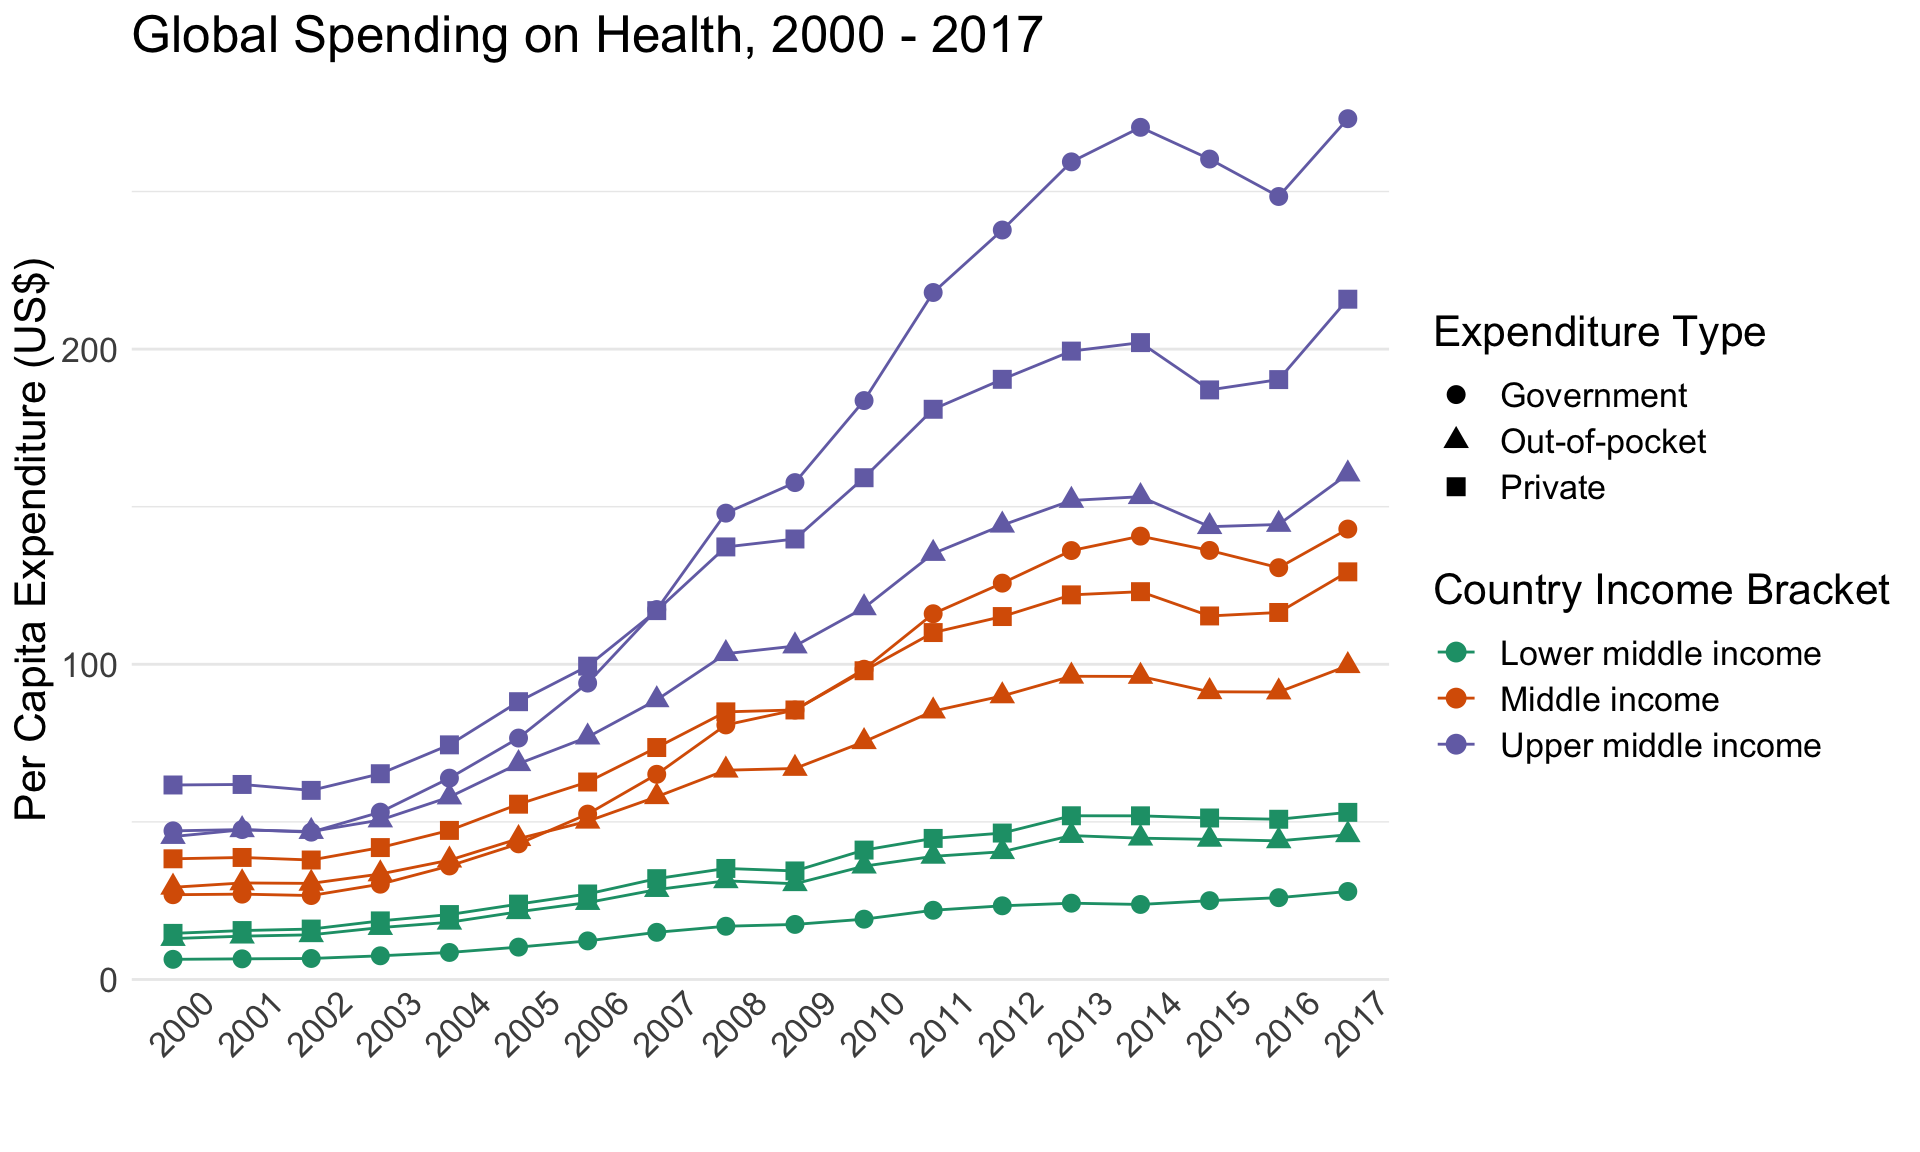
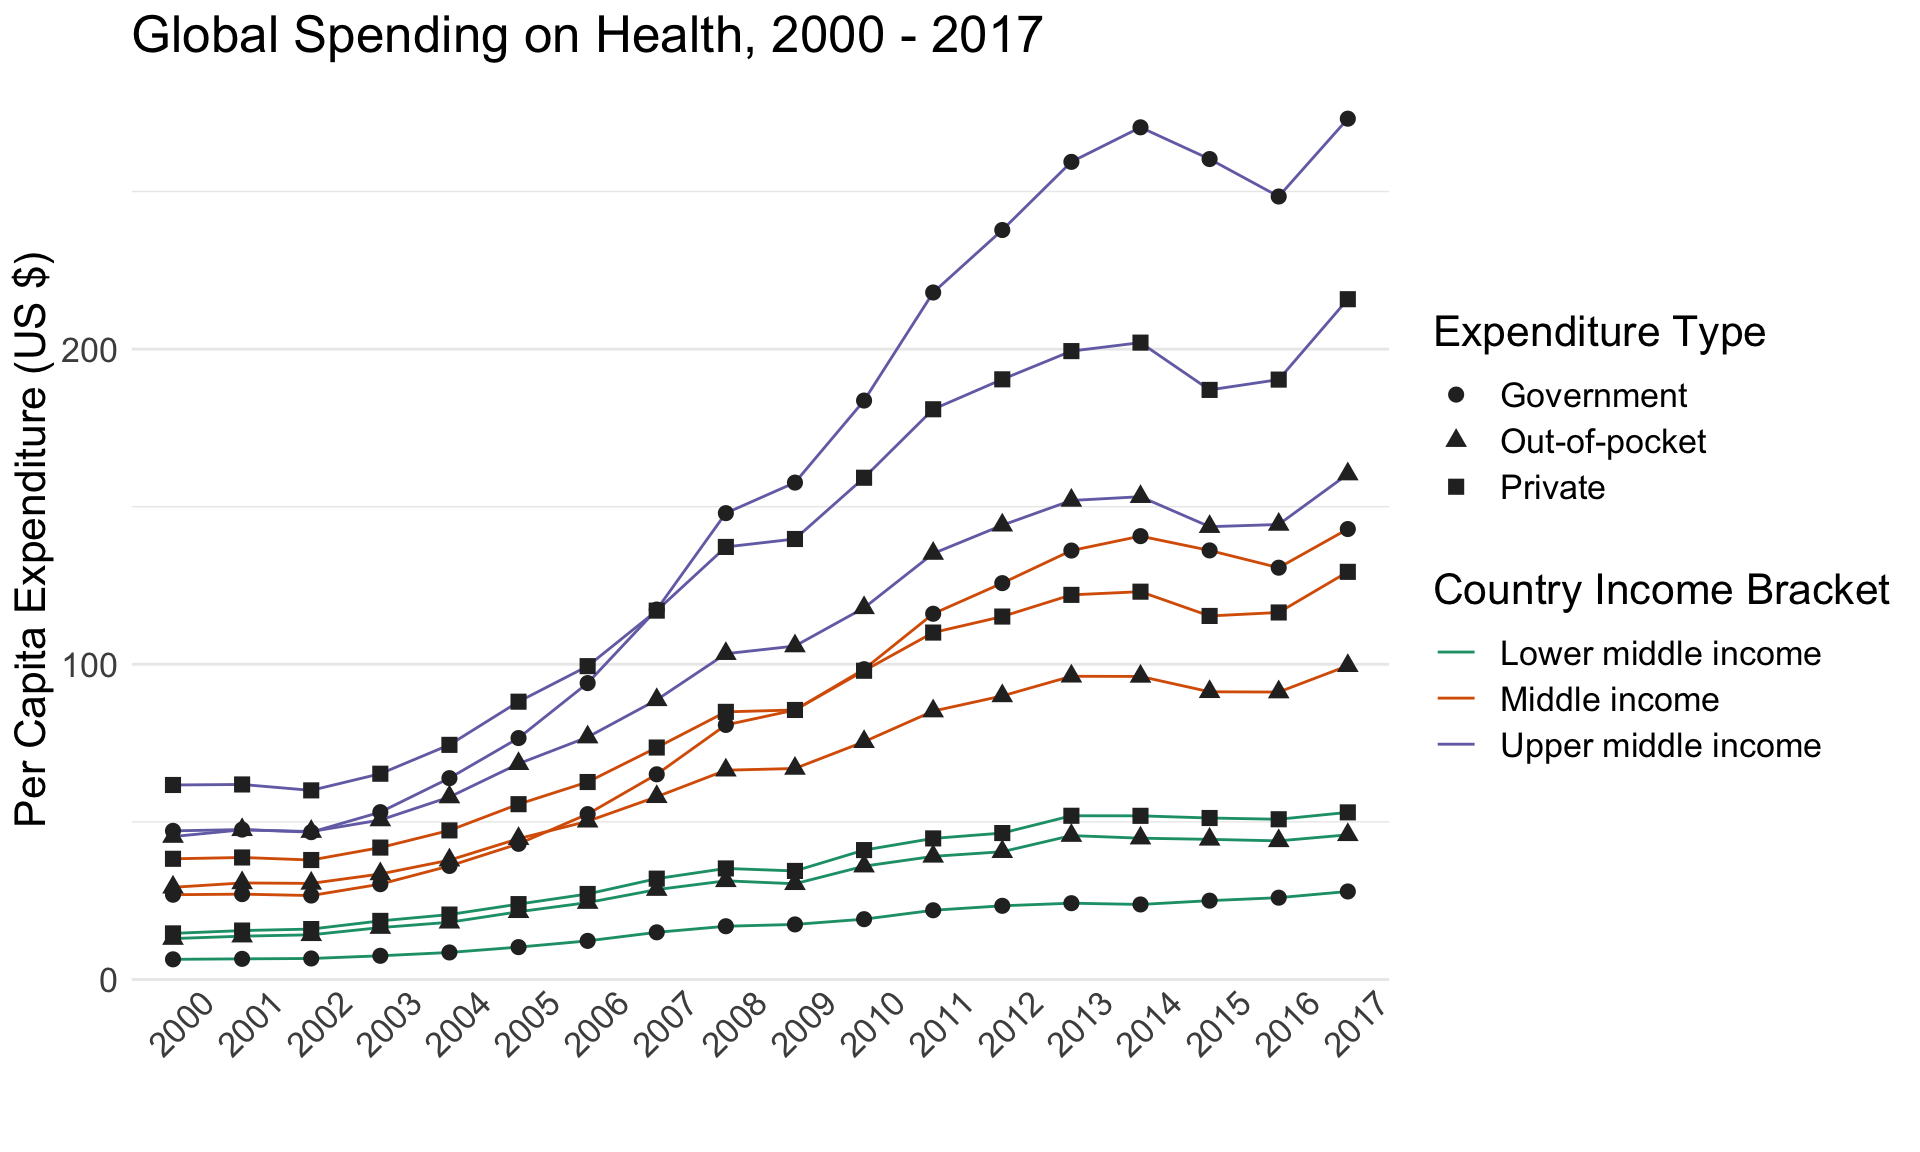
revise WHO plot & legend

diff --git a/public/post/visualizing-world-bank-health-data-better-than-the-world-bank/index.html b/public/post/visualizing-world-bank-health-data-better-than-the-world-bank/index.html
@@ -155,6 +155,7 @@ Figure 1: WHO visualization on global health spending between 2000 and 2017. Sou
 <p>We’ll need to do some data cleaning as the format for data entry isn’t optimal for data analysis and visualization. The complete code for cleaning and plotting the data is provided below, but I won’t spend time discussing the cleaning portion as I think focusing on comparing the original WHO viz and mine is more interesting!</p>
 <pre class="r"><code>library(tidyr)
 library(tidyverse)
+
 wb &lt;- read.csv(&quot;~/Desktop/SMU/Viz/world_bank_WDIhealth.csv&quot;)
 
 # eliminate redundant or empty columns
@@ -183,15 +184,16 @@ wb2_tidy &lt;- wb2_tidy %&gt;% mutate(`Expenditure Type` =
                       ifelse(Series.Code == &quot;SH.XPD.GHED.PC.CD&quot;, &quot;Government&quot;, &quot;Out-of-pocket&quot;)))
 
 # hat tip of interaction from https://stackoverflow.com/questions/9968976/group-by-two-columns-in-ggplot2
-ggplot(wb2_tidy, aes(Year, Value, color=Country.Name, shape = `Expenditure Type`,
-                     group=interaction(Country.Code, Series.Code))) + 
-  geom_line() + 
-  geom_point(size=3) + 
+
+ggplot(wb2_tidy, aes(Year, Value)) + 
+  geom_line(aes(color=Country.Name,
+            group=interaction(Country.Name, `Expenditure Type`))) + 
+  geom_point(aes(shape = `Expenditure Type`), size=2.5, color = &quot;gray17&quot;) + 
   theme_minimal() +
   xlab(&quot;&quot;) + 
-  ylab(&quot;Per Capita Expenditure (US$)&quot;) +
+  ylab(&quot;Per Capita Expenditure (US $)&quot;)+
   theme(text = element_text(size = 16),
-        panel.grid.major.x = element_blank(),
+        panel.grid.major.x = element_blank(), 
         axis.text.x = element_text(angle = 45))+
   scale_color_brewer(palette = &quot;Dark2&quot;) + 
   labs(color = &quot;Country Income Bracket&quot;, shape = &quot;Expenditure Type&quot;) + 

diff --git a/content/post/2020-10-03-visualizing-world-bank-health-data-better-than-the-world-bank.html b/content/post/2020-10-03-visualizing-world-bank-health-data-better-than-the-world-bank.html
@@ -35,6 +35,7 @@ Figure 1: WHO visualization on global health spending between 2000 and 2017. Sou
 <p>We’ll need to do some data cleaning as the format for data entry isn’t optimal for data analysis and visualization. The complete code for cleaning and plotting the data is provided below, but I won’t spend time discussing the cleaning portion as I think focusing on comparing the original WHO viz and mine is more interesting!</p>
 <pre class="r"><code>library(tidyr)
 library(tidyverse)
+
 wb &lt;- read.csv(&quot;~/Desktop/SMU/Viz/world_bank_WDIhealth.csv&quot;)
 
 # eliminate redundant or empty columns
@@ -63,15 +64,16 @@ wb2_tidy &lt;- wb2_tidy %&gt;% mutate(`Expenditure Type` =
                       ifelse(Series.Code == &quot;SH.XPD.GHED.PC.CD&quot;, &quot;Government&quot;, &quot;Out-of-pocket&quot;)))
 
 # hat tip of interaction from https://stackoverflow.com/questions/9968976/group-by-two-columns-in-ggplot2
-ggplot(wb2_tidy, aes(Year, Value, color=Country.Name, shape = `Expenditure Type`,
-                     group=interaction(Country.Code, Series.Code))) + 
-  geom_line() + 
-  geom_point(size=3) + 
+
+ggplot(wb2_tidy, aes(Year, Value)) + 
+  geom_line(aes(color=Country.Name,
+            group=interaction(Country.Name, `Expenditure Type`))) + 
+  geom_point(aes(shape = `Expenditure Type`), size=2.5, color = &quot;gray17&quot;) + 
   theme_minimal() +
   xlab(&quot;&quot;) + 
-  ylab(&quot;Per Capita Expenditure (US$)&quot;) +
+  ylab(&quot;Per Capita Expenditure (US $)&quot;)+
   theme(text = element_text(size = 16),
-        panel.grid.major.x = element_blank(),
+        panel.grid.major.x = element_blank(), 
         axis.text.x = element_text(angle = 45))+
   scale_color_brewer(palette = &quot;Dark2&quot;) + 
   labs(color = &quot;Country Income Bracket&quot;, shape = &quot;Expenditure Type&quot;) + 
